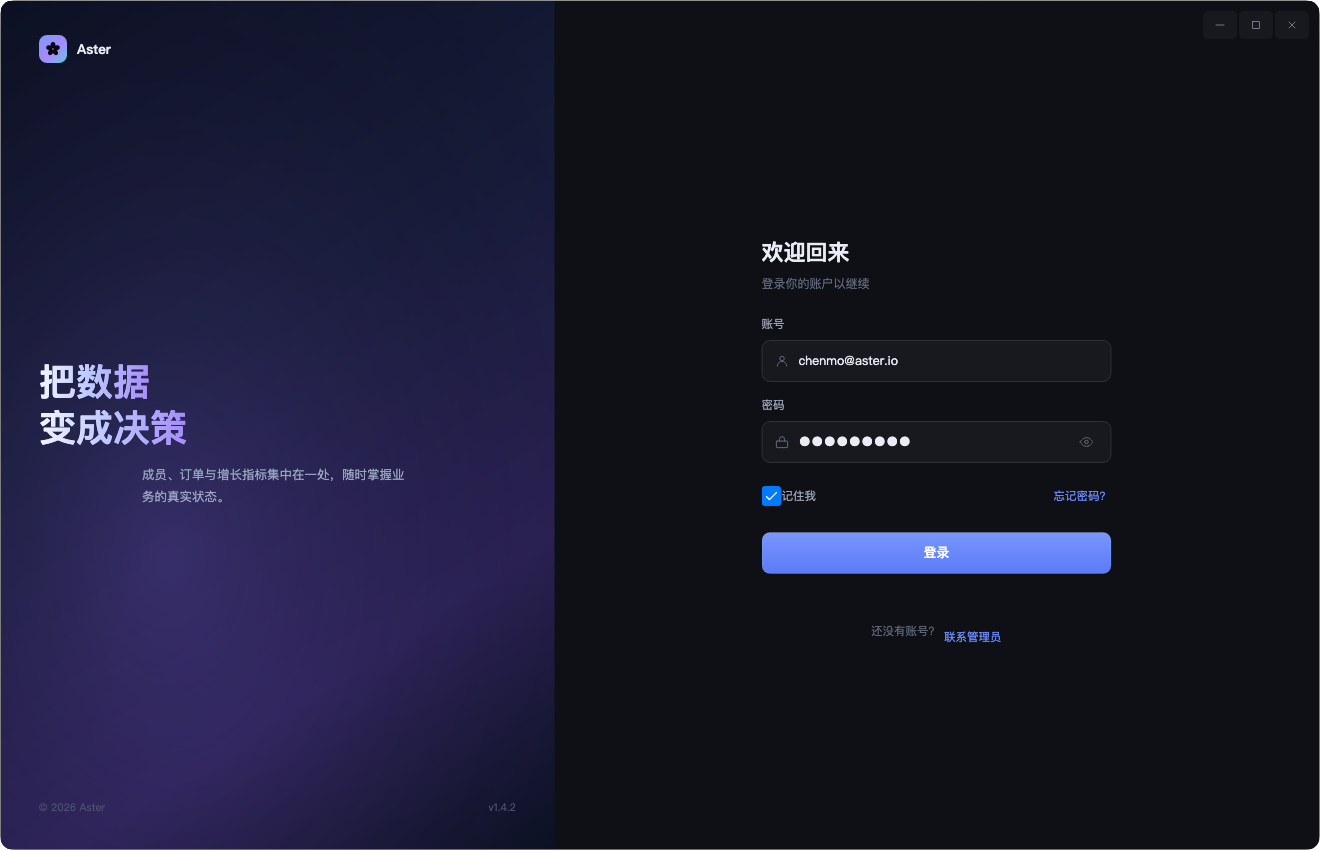
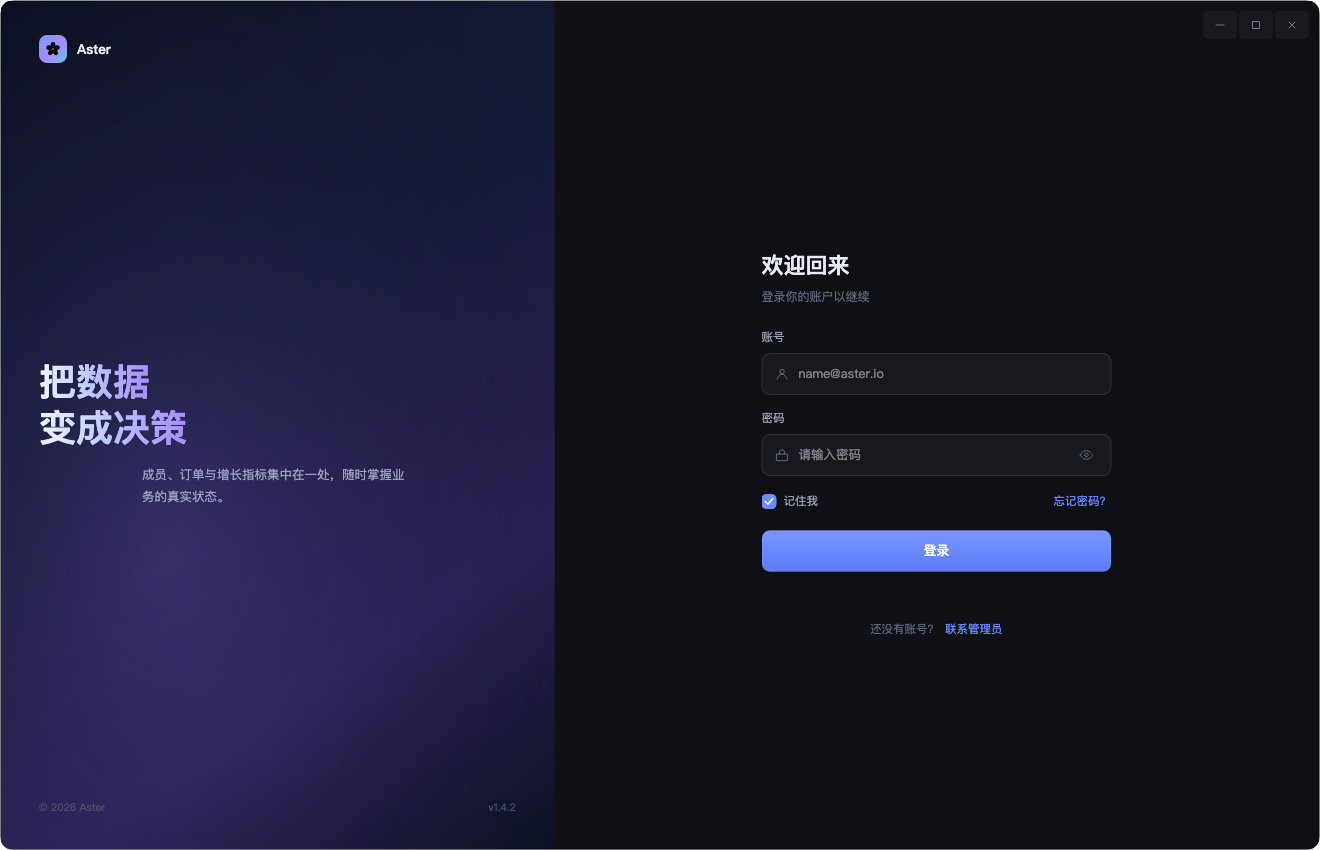
fix(login): 账号密码默认留空，修正复选框间距与底部链接对齐
- 账号 / 密码默认值改为空，账号显示 name@aster.io 水印，密码框增加「请输入密码」水印
- 新增 CheckBox 自定义主题：15px 圆角方框 + 7px 文字间距（此前用 Fluent 默认 20px 方框且紧贴文字）
- Button.link 去掉固定 20px 高度、MinHeight 归零并垂直居中，使「联系管理员」与「还没有账号？」同基线
- 文档同步说明：任意非空账号密码即可登录（无后端校验）

diff --git a/Dome/Aster/ViewModels/MainWindowViewModel.cs b/Dome/Aster/ViewModels/MainWindowViewModel.cs
@@ -30,8 +30,8 @@ public sealed class MainWindowViewModel : ObservableObject
     private object? _activeView;
     private bool _isSettingsOpen;
     private DialogKind _dialog = DialogKind.None;
-    private string _userName = "chenmo@aster.io";
-    private string _password = "aster2026";
+    private string _userName = string.Empty;
+    private string _password = string.Empty;
     private bool _remember = true;
     private bool _showPassword;
     private bool _isBusy;

diff --git a/Dome/Aster/README.md b/Dome/Aster/README.md
@@ -36,7 +36,7 @@ dotnet run
 ## 界面流程
 
 1. **启动屏**：2 秒进度动画 → 自动进入登录页。
-2. **登录**：默认已填 `chenmo@aster.io` / `aster2026`，点「登录」进入工作台；「忘记密码」「联系管理员」为两步弹窗。
+2. **登录**：账号密码默认为空，输入任意非空内容即可进入工作台（纯演示，无后端校验）；「忘记密码」「联系管理员」为两步弹窗。
 3. **工作台**（点左上角 Aster 图标随时回来）：问候语、四张指标卡、最近编辑、快捷操作、继续播放、今日节奏曲线。
 4. **文档**：左侧目录树（分组折叠 / 搜索 / 分组筛选）+ 中间编辑器（行号 + 三档视图：编辑·分栏·预览）+ 右侧 Markdown 实时预览。
 5. **音乐**：歌单列表 + 唱片舞台（旋转唱片、歌词、进度/音量可拖动）+ 右侧音频可视化与播放队列。

diff --git a/README.md b/README.md
@@ -67,6 +67,8 @@ dotnet run
 
 只编译不运行：`dotnet build`，产物在 `Dome/Aster/bin/Debug/net8.0/`。
 
+> **演示登录**：账号与密码默认为空，任意非空内容都能登录（无后端校验），登录后直接进入工作台。
+
 > **关于 NuGet 源**：`Dome/Aster/NuGet.Config` 默认指向国内镜像 `https://nuget.azure.cn/v3/index.json`，
 > 首次 `restore` 更快。需要官方源时删除该文件，或改成 `https://api.nuget.org/v3/index.json`。
 
